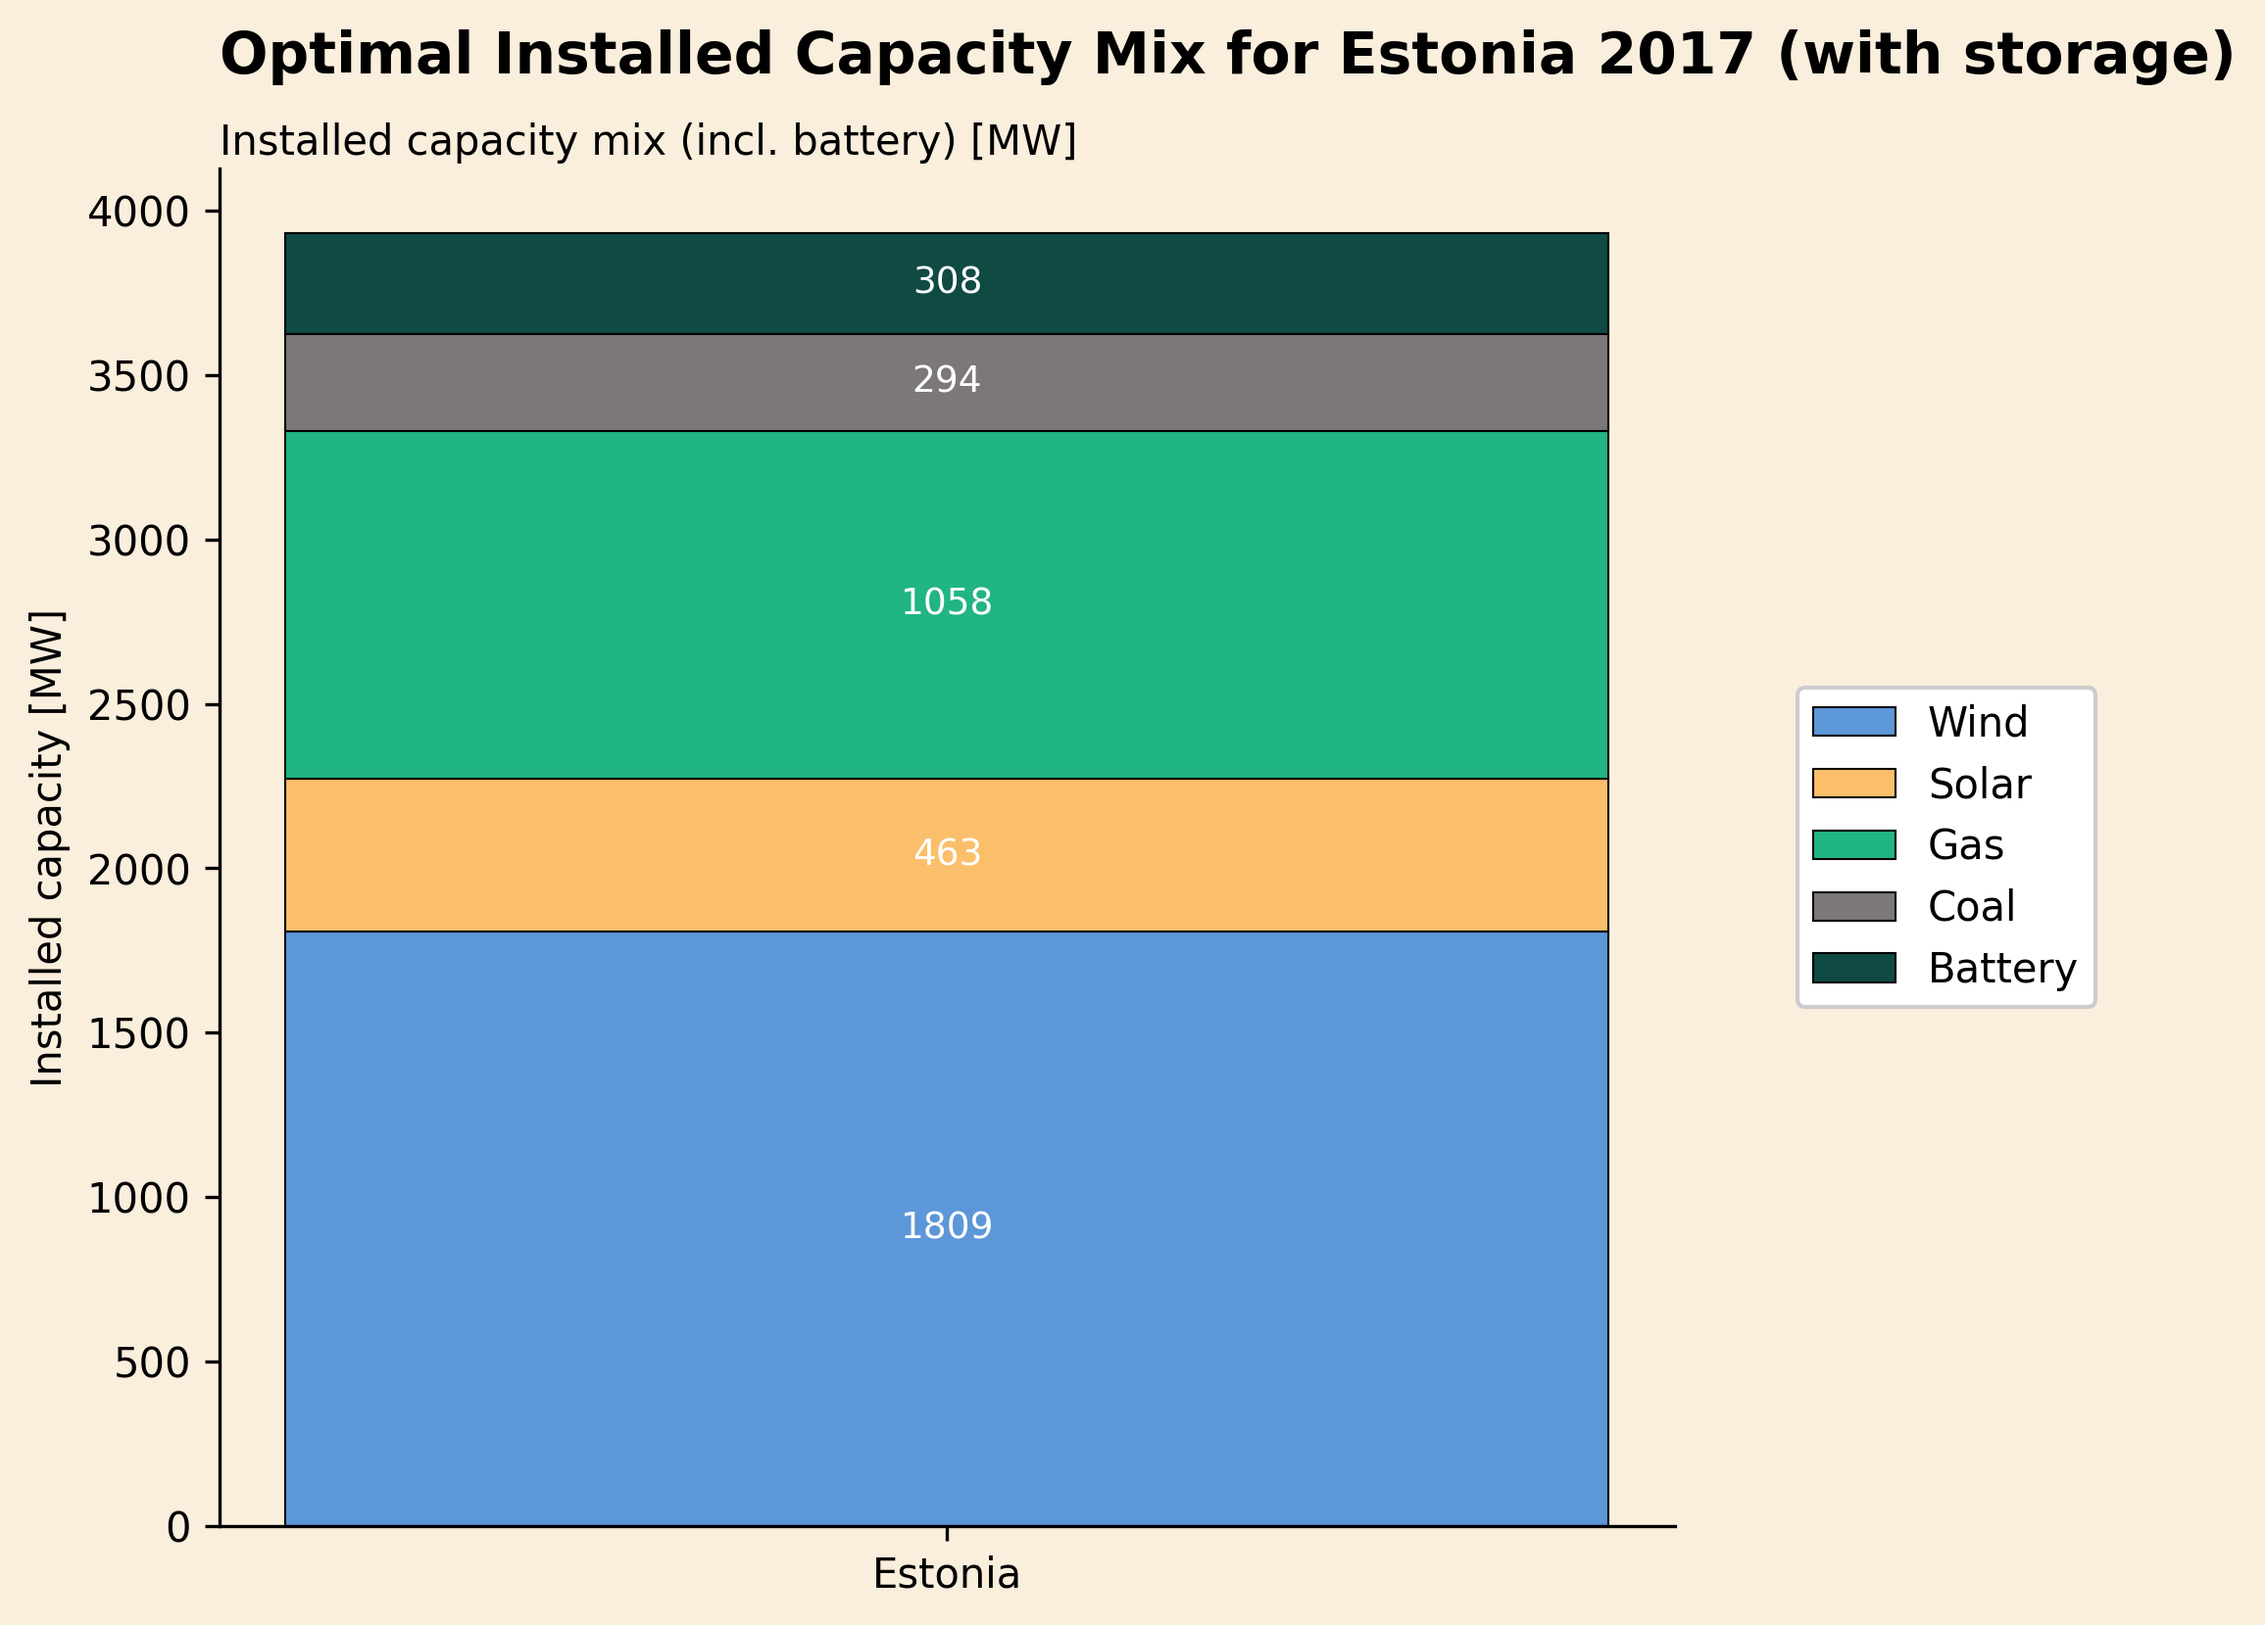
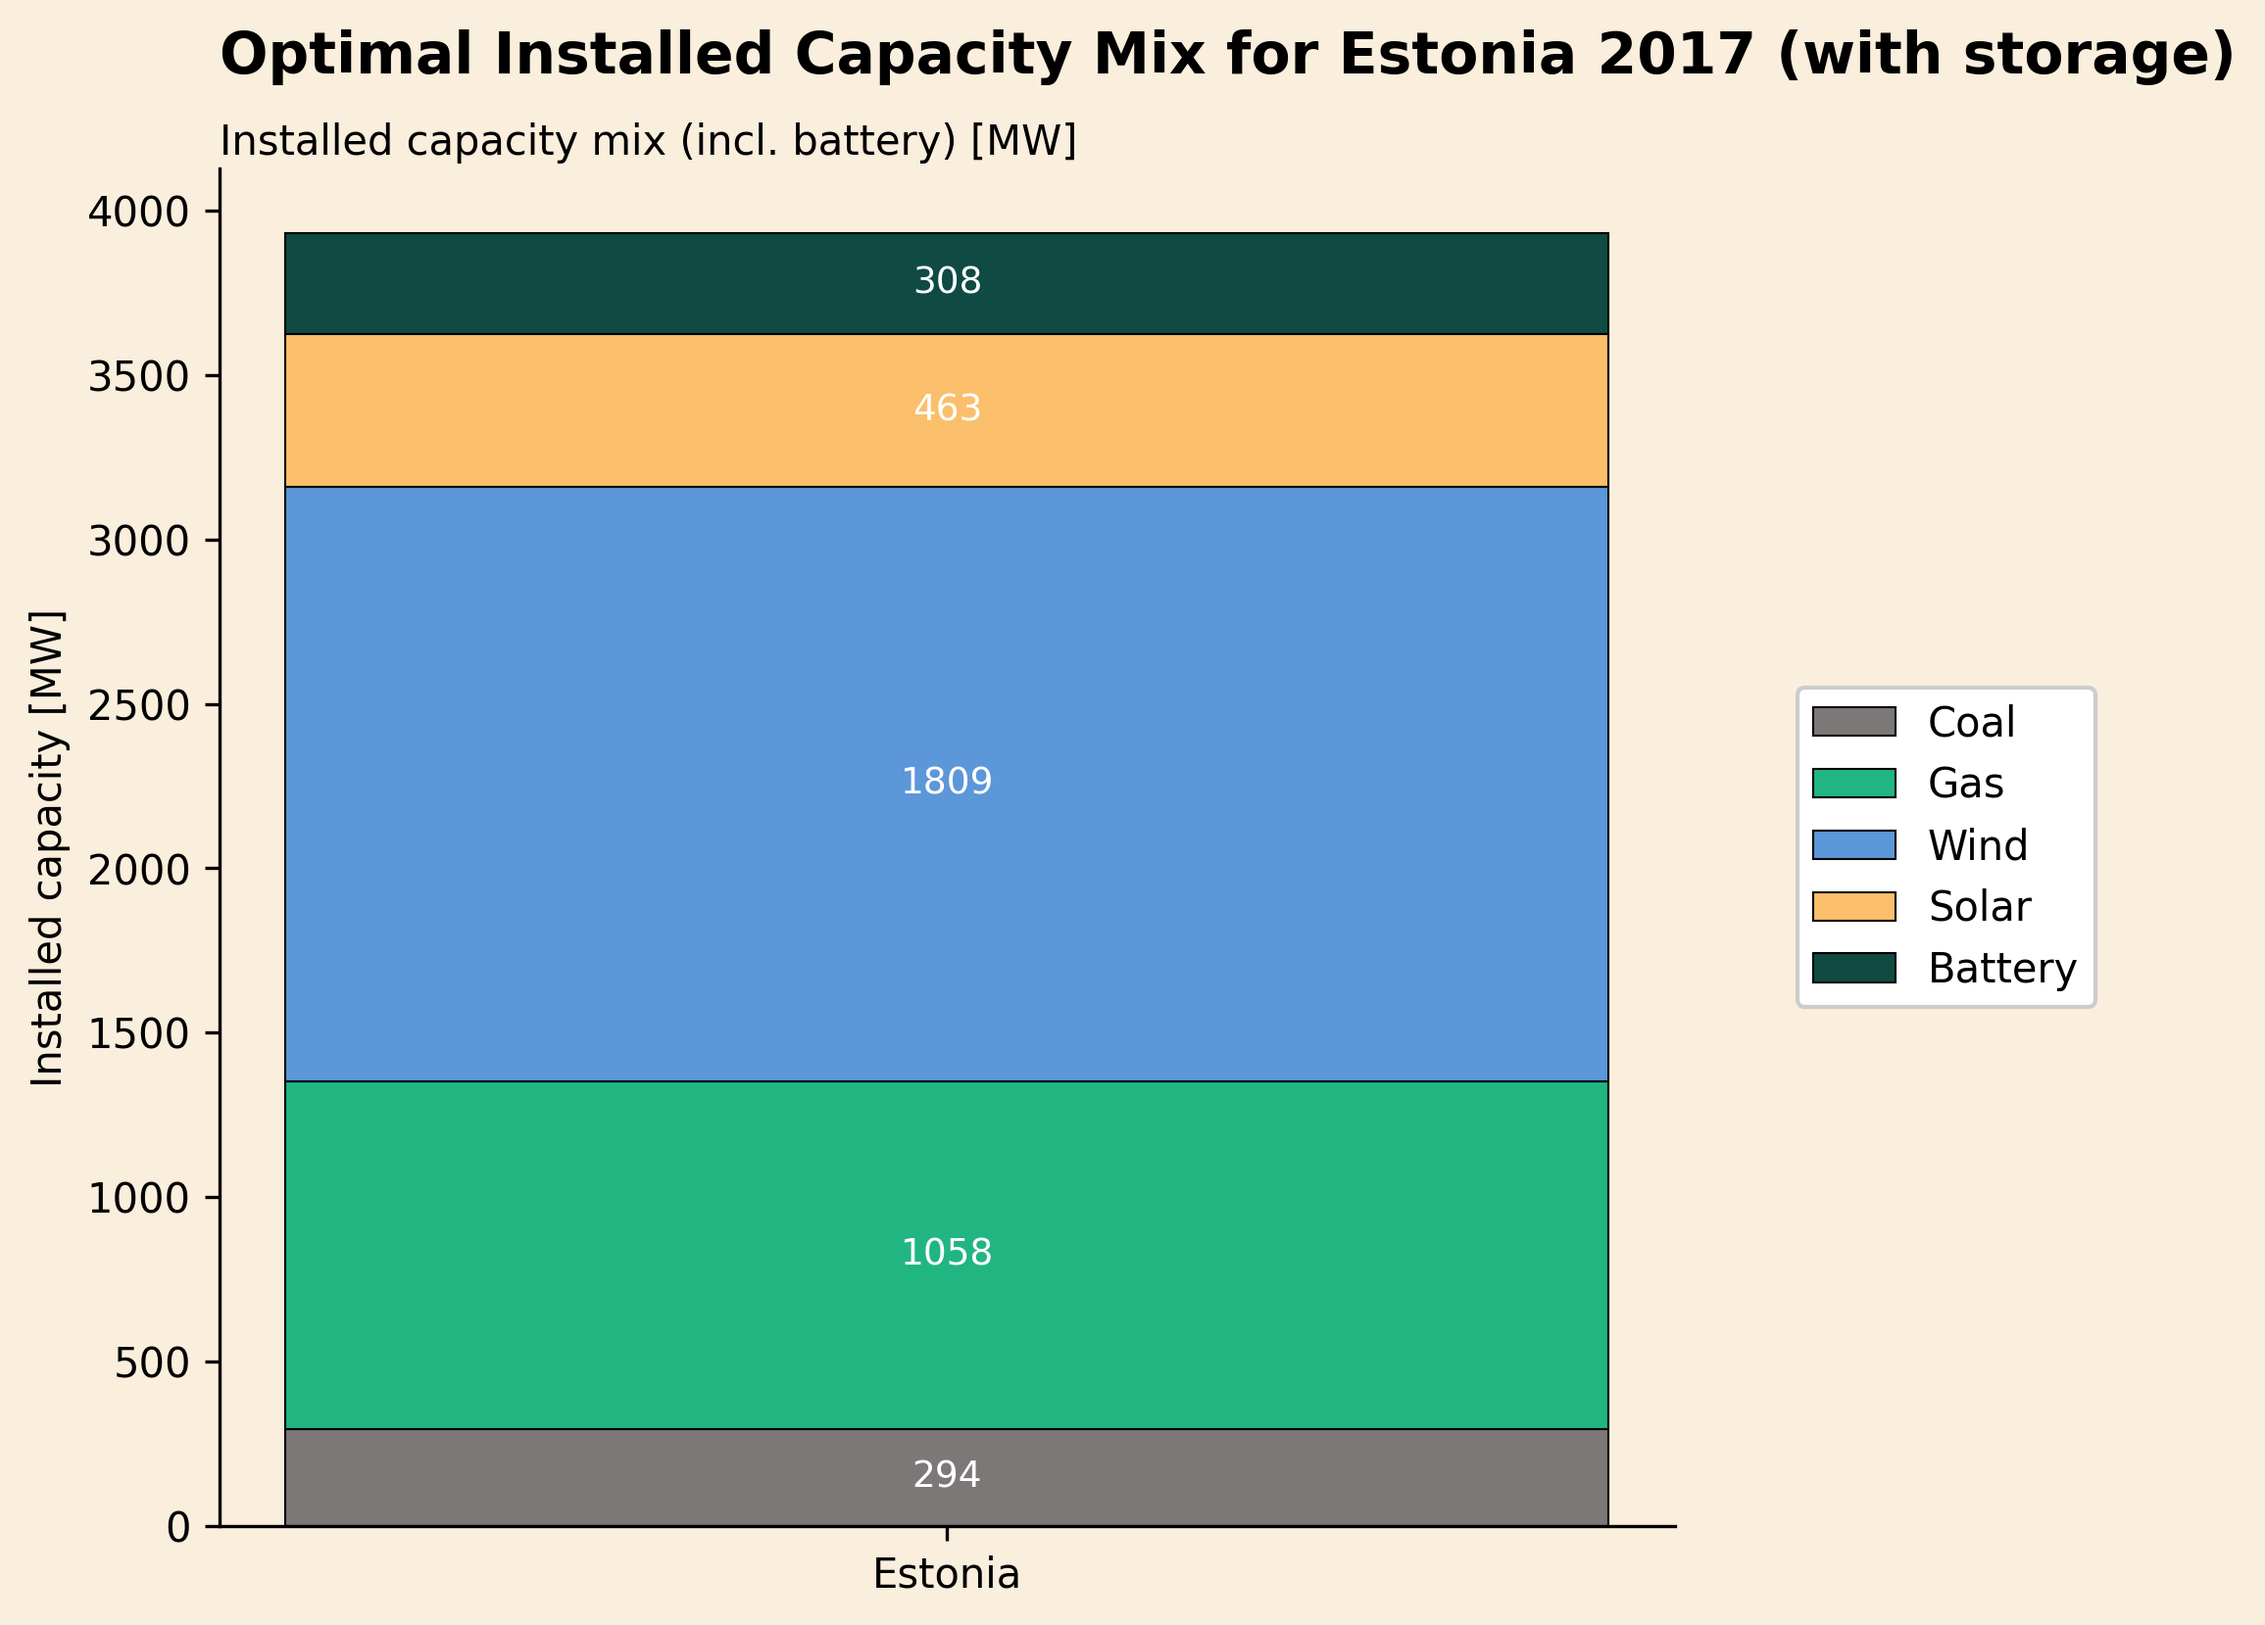
back to the pie chart

diff --git a/plotter.py b/plotter.py
@@ -56,41 +56,60 @@ def plot_annual_energy_mix(df, title, show=False, save=True):
         ("OCGT Estonia", "Gas", colors[14]),
         ("Coal Estonia", "Coal", colors[15]),
     ]
-    if "Battery Storage Discharge" in df.columns:
-        components.append(("Battery Storage Discharge", "Battery Discharge", colors[9]))
+
+    if "Battery Discharge Estonia" in df.columns:
+        components.append(("Battery Discharge Estonia", "Battery Discharge", colors[9]))
+
+    # Add net imports if the annual balance is positive.
+    import_columns = [col for col in df.columns if "EST" in col and "-" in col]
+    net_import_to_estonia = 0.0
+    for col in import_columns:
+        flow = df[col].sum()
+        left, right = col.split("-")
+
+        if left == "EST":
+            net_import_to_estonia -= flow
+        elif right == "EST":
+            net_import_to_estonia += flow
+
+    if net_import_to_estonia > 0:
+        components.append(("Net Import to Estonia", "Net Imports", colors[10]))
     
 
     values = [df[col].sum() for col, _, _ in components]
     labels = [label for _, label, _ in components]
-    bar_colors = [color for _, _, color in components]
+    pie_colors = [color for _, _, color in components]
+
+    labels_with_totals = [f"{label}\n({val:.0f} MWh)" for label, val in zip(labels, values)]
     
-    fig, ax = plt.subplots(figsize=(12, 5))
+    fig, ax = plt.subplots(figsize=(14, 8))
     fig.patch.set_facecolor(background_color)
     ax.set_facecolor(background_color)
     
-    bars = ax.bar(labels, values, color=bar_colors, edgecolor='white', linewidth=0.5)
+    ax.pie(
+        values,
+        labels=labels_with_totals,
+        colors=pie_colors,
+        autopct='%1.1f%%',
+        startangle=90,
+        textprops={'fontsize': 10, 'color': 'black', 'fontweight': 'bold'},
+        wedgeprops={'linewidth': 0.5, 'edgecolor': 'white'},
+        pctdistance=0.75,
+    )
+    ax.set_aspect('equal')
     
-    # Add value labels on top of bars
-    for bar, value in zip(bars, values):
-        ax.text(
-            bar.get_x() + bar.get_width() / 2,
-            bar.get_height(),
-            f'{value:.0f}',
-            ha='center',
-            va='bottom',
-            fontsize=10,
-            fontweight='bold'
-        )
     
     ax.text(0.0, 1.07, title, transform=ax.transAxes, fontsize=14, color='black', ha='left', fontweight='bold')
-    annual_subtitle = 'Total Wind, Solar, Gas, and Coal Production in MWh'
-    if "Battery Storage Discharge" in df.columns:
-        annual_subtitle = 'Total Wind, Solar, Gas, Coal, and Battery Discharge in MWh'
+    subtitle_parts = ["Wind", "Solar", "Gas", "Coal"]
+    if "Battery Discharge Estonia" in df.columns:
+        subtitle_parts.append("Battery Discharge")
+    if net_import_to_estonia > 0:
+        subtitle_parts.append("Net Imports")
+    annual_subtitle = "Total " + ", ".join(subtitle_parts[:-1]) + (
+        f", and {subtitle_parts[-1]}" if len(subtitle_parts) > 1 else subtitle_parts[0]
+    ) + " in MWh"
 
     ax.text(0.0, 1.01, annual_subtitle, transform=ax.transAxes, fontsize=10, color='black', ha='left')
-    ax.set_ylabel('Energy Production [MWh]')
-    ax.spines['top'].set_visible(False)
-    ax.spines['right'].set_visible(False)
     
     if save:
         fig_title = title.replace(" ", "_").lower()
@@ -526,10 +545,10 @@ def plot_capacity_mix(capacities, title, show=False, save=True):
     capacities = capacities.groupby(capacities.index).sum()
 
     components = [
+        ("Coal Estonia", "Coal", colors[15]),
+        ("OCGT Estonia", "Gas", colors[14]),
         ("Wind Generator Estonia", "Wind", colors[13]),
         ("Solar Generator Estonia", "Solar", colors[12]),
-        ("OCGT Estonia", "Gas", colors[14]),
-        ("Coal Estonia", "Coal", colors[15]),
     ]
 
     # Add battery only if present
@@ -625,12 +644,12 @@ def plot_capacity_mix_by_country(capacities, title, show=False, save=True):
     countries = ["Estonia", "Finland", "Sweden", "Latvia"]
 
     technologies = [
+        ("Nuclear", colors[8]),
+        ("Coal", colors[15]),
+        ("Gas", colors[14]),
+        ("Hydro", colors[11]),
         ("Wind", colors[13]),
         ("Solar", colors[12]),
-        ("Gas", colors[14]),
-        ("Coal", colors[15]),
-        ("Nuclear", colors[8]),
-        ("Hydro", colors[11]),
         ("Battery", colors[9]),
     ]
 

diff --git a/main.py b/main.py
@@ -60,6 +60,7 @@ for result in scenario_results:
     soc_axis_max = result["soc_axis_max"]
     
     plot_capacity_mix(capacities, f"Optimal Installed Capacity Mix for Estonia 2017 ({scenario_label})")
+    plot_annual_energy_mix(dispatch, f"Annual Energy Mix for Estonia 2017 ({scenario_label})")
     
     plot_dispatch(
         january_week,
@@ -80,6 +81,7 @@ for result in scenario_results:
     )
     
     plot_capacity_mix(capacities, f"Optimal Installed Capacity Mix for Estonia 2017 ({scenario_label})")
+    plot_annual_energy_mix(dispatch, f"Annual Energy Mix for Estonia 2017 ({scenario_label})")      
     plot_duration_curve(dispatch, f"Duration Curve for 2017 ({scenario_label})")
     
 
@@ -130,6 +132,7 @@ plot_dispatch_with_net_transmission(
 )
 
 plot_capacity_mix_by_country(capacities, f"Optimal Installed Capacity Mix by Country 2017 ({scenario_label})", show=False, save=True)
+plot_annual_energy_mix(dispatch, f"Annual Energy Mix for Estonia 2017 ({scenario_label})", show=False, save=True)
 plot_duration_curve(dispatch, f"Duration Curve for 2017 ({scenario_label})")
 
 
@@ -183,6 +186,7 @@ print("--------------------------------------------------------")
 # f) CO2 limit analysis
 # https://kliimaministeerium.ee/sites/default/files/documents/2024-04/Energy%20summary_2024.pdf?
 base_co2 = 28_000_000
+    
     
 scenario_results = []
     
